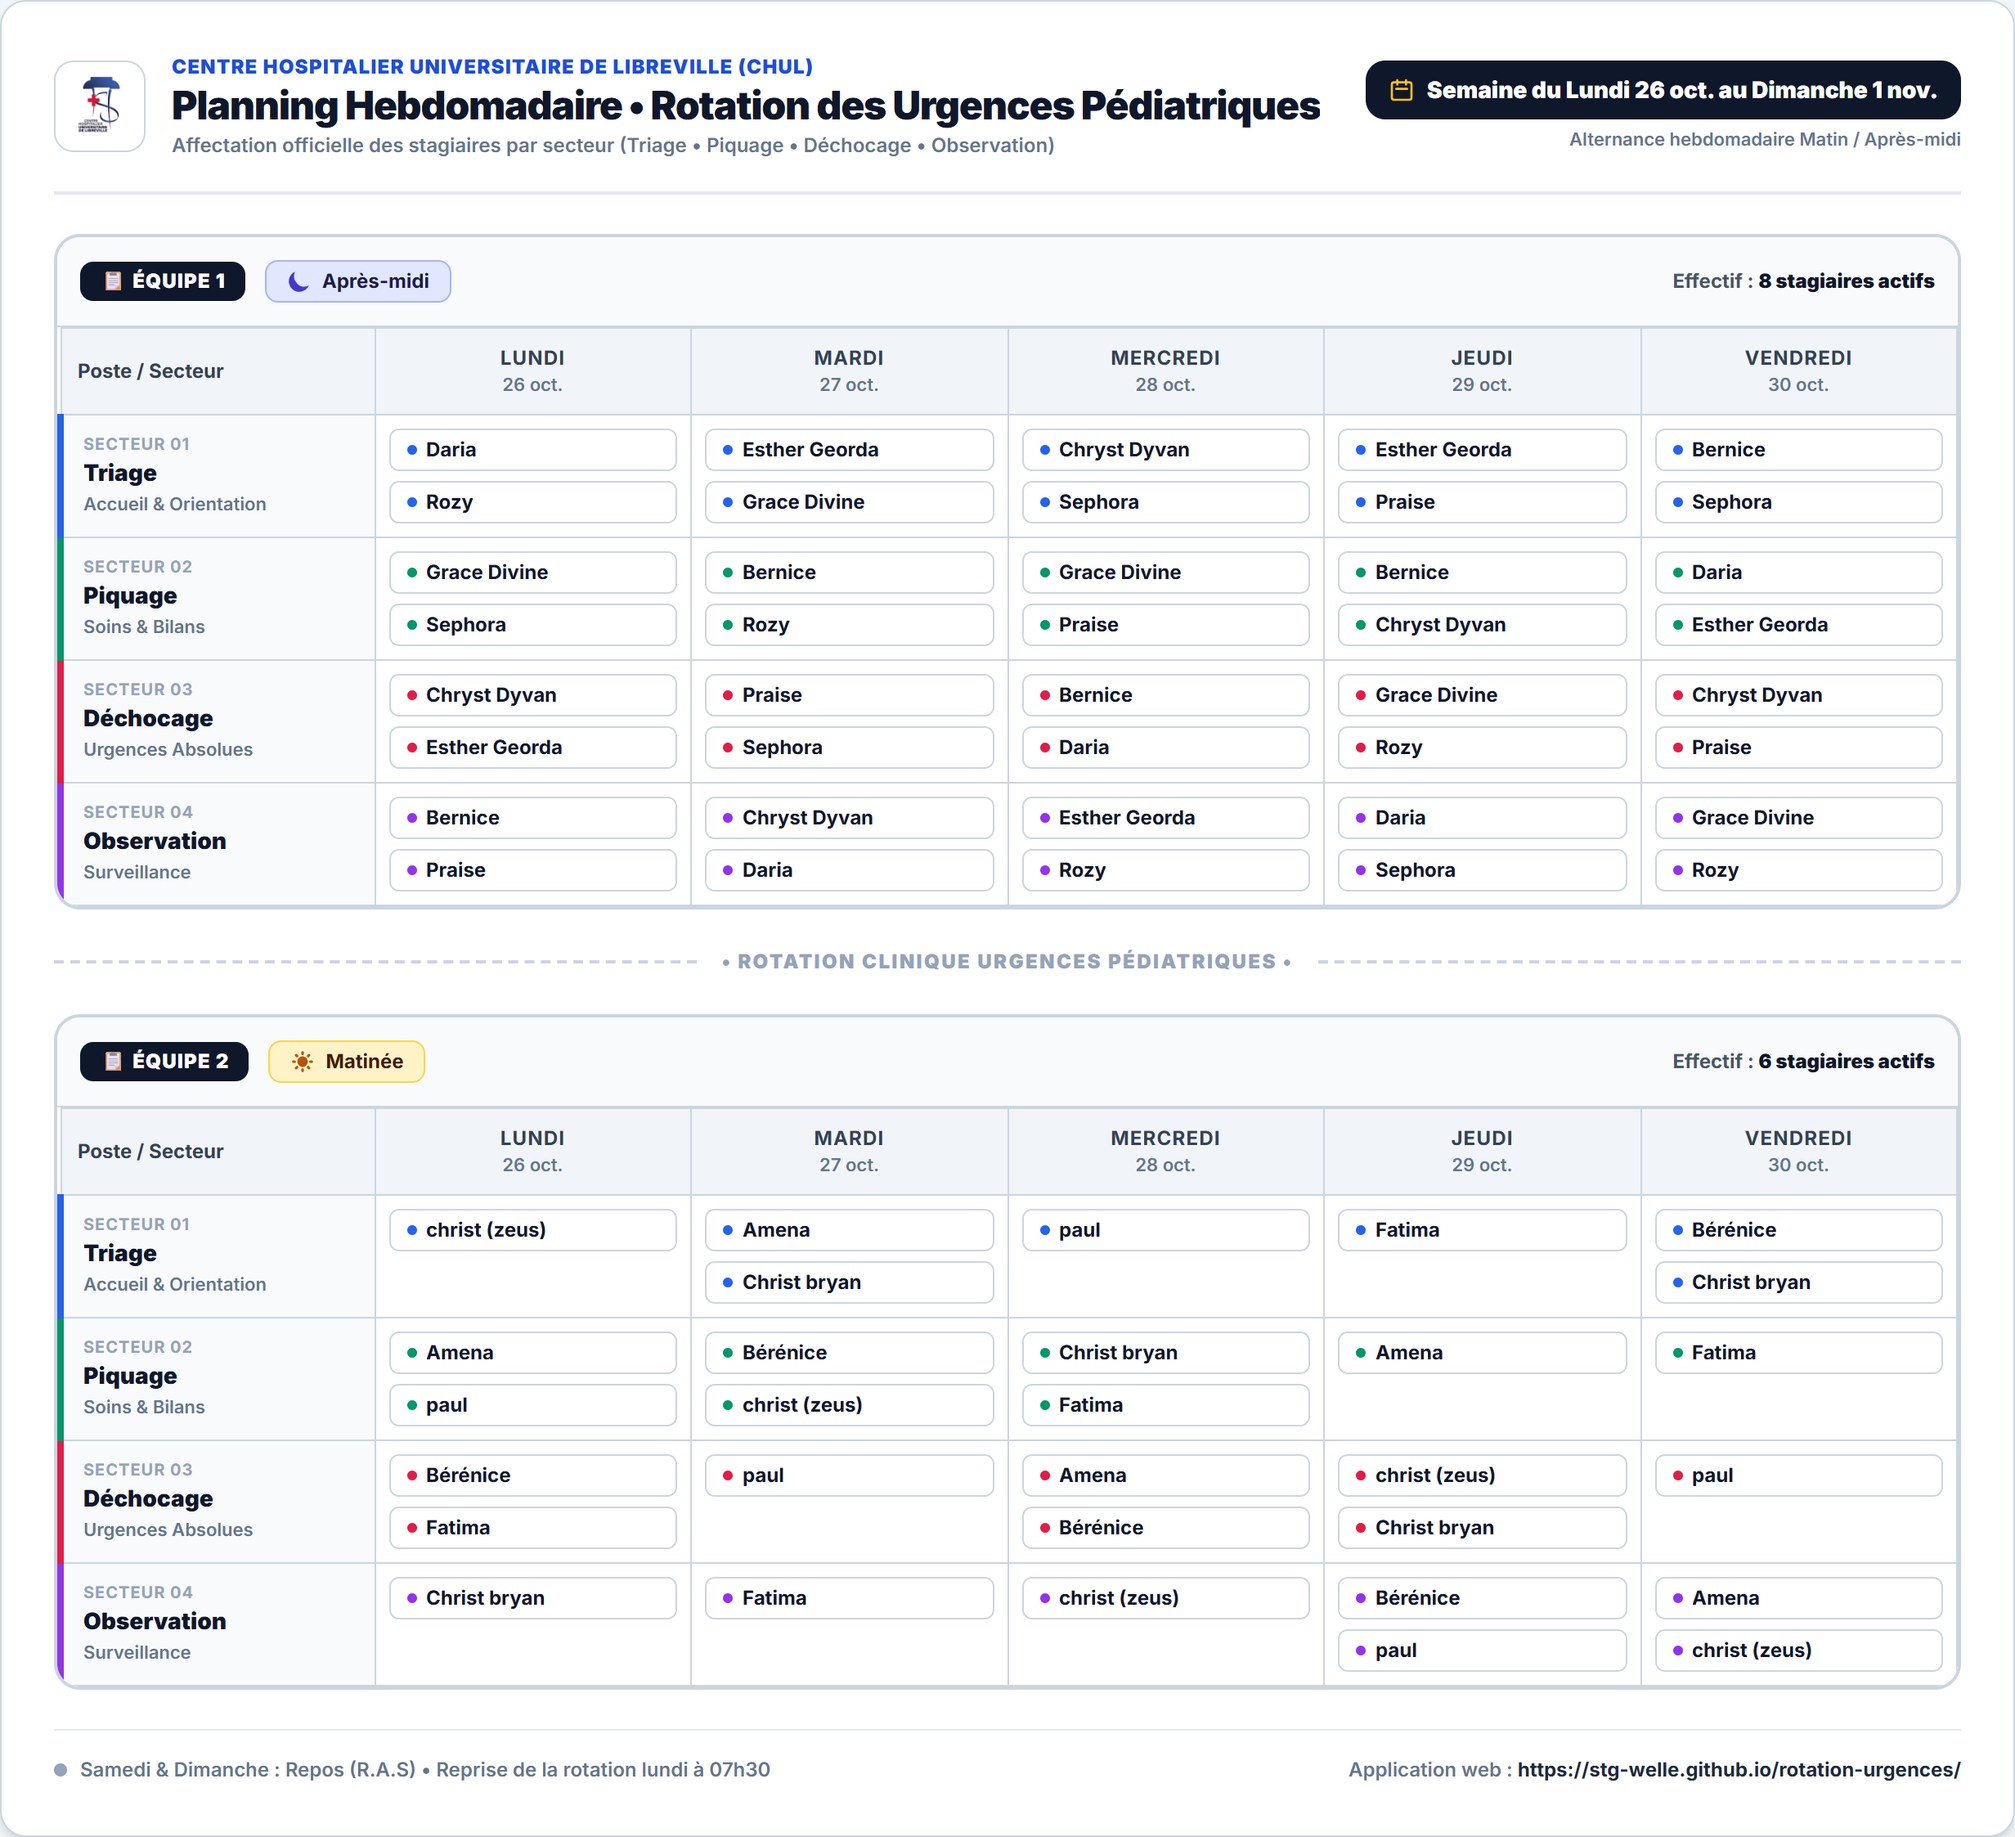
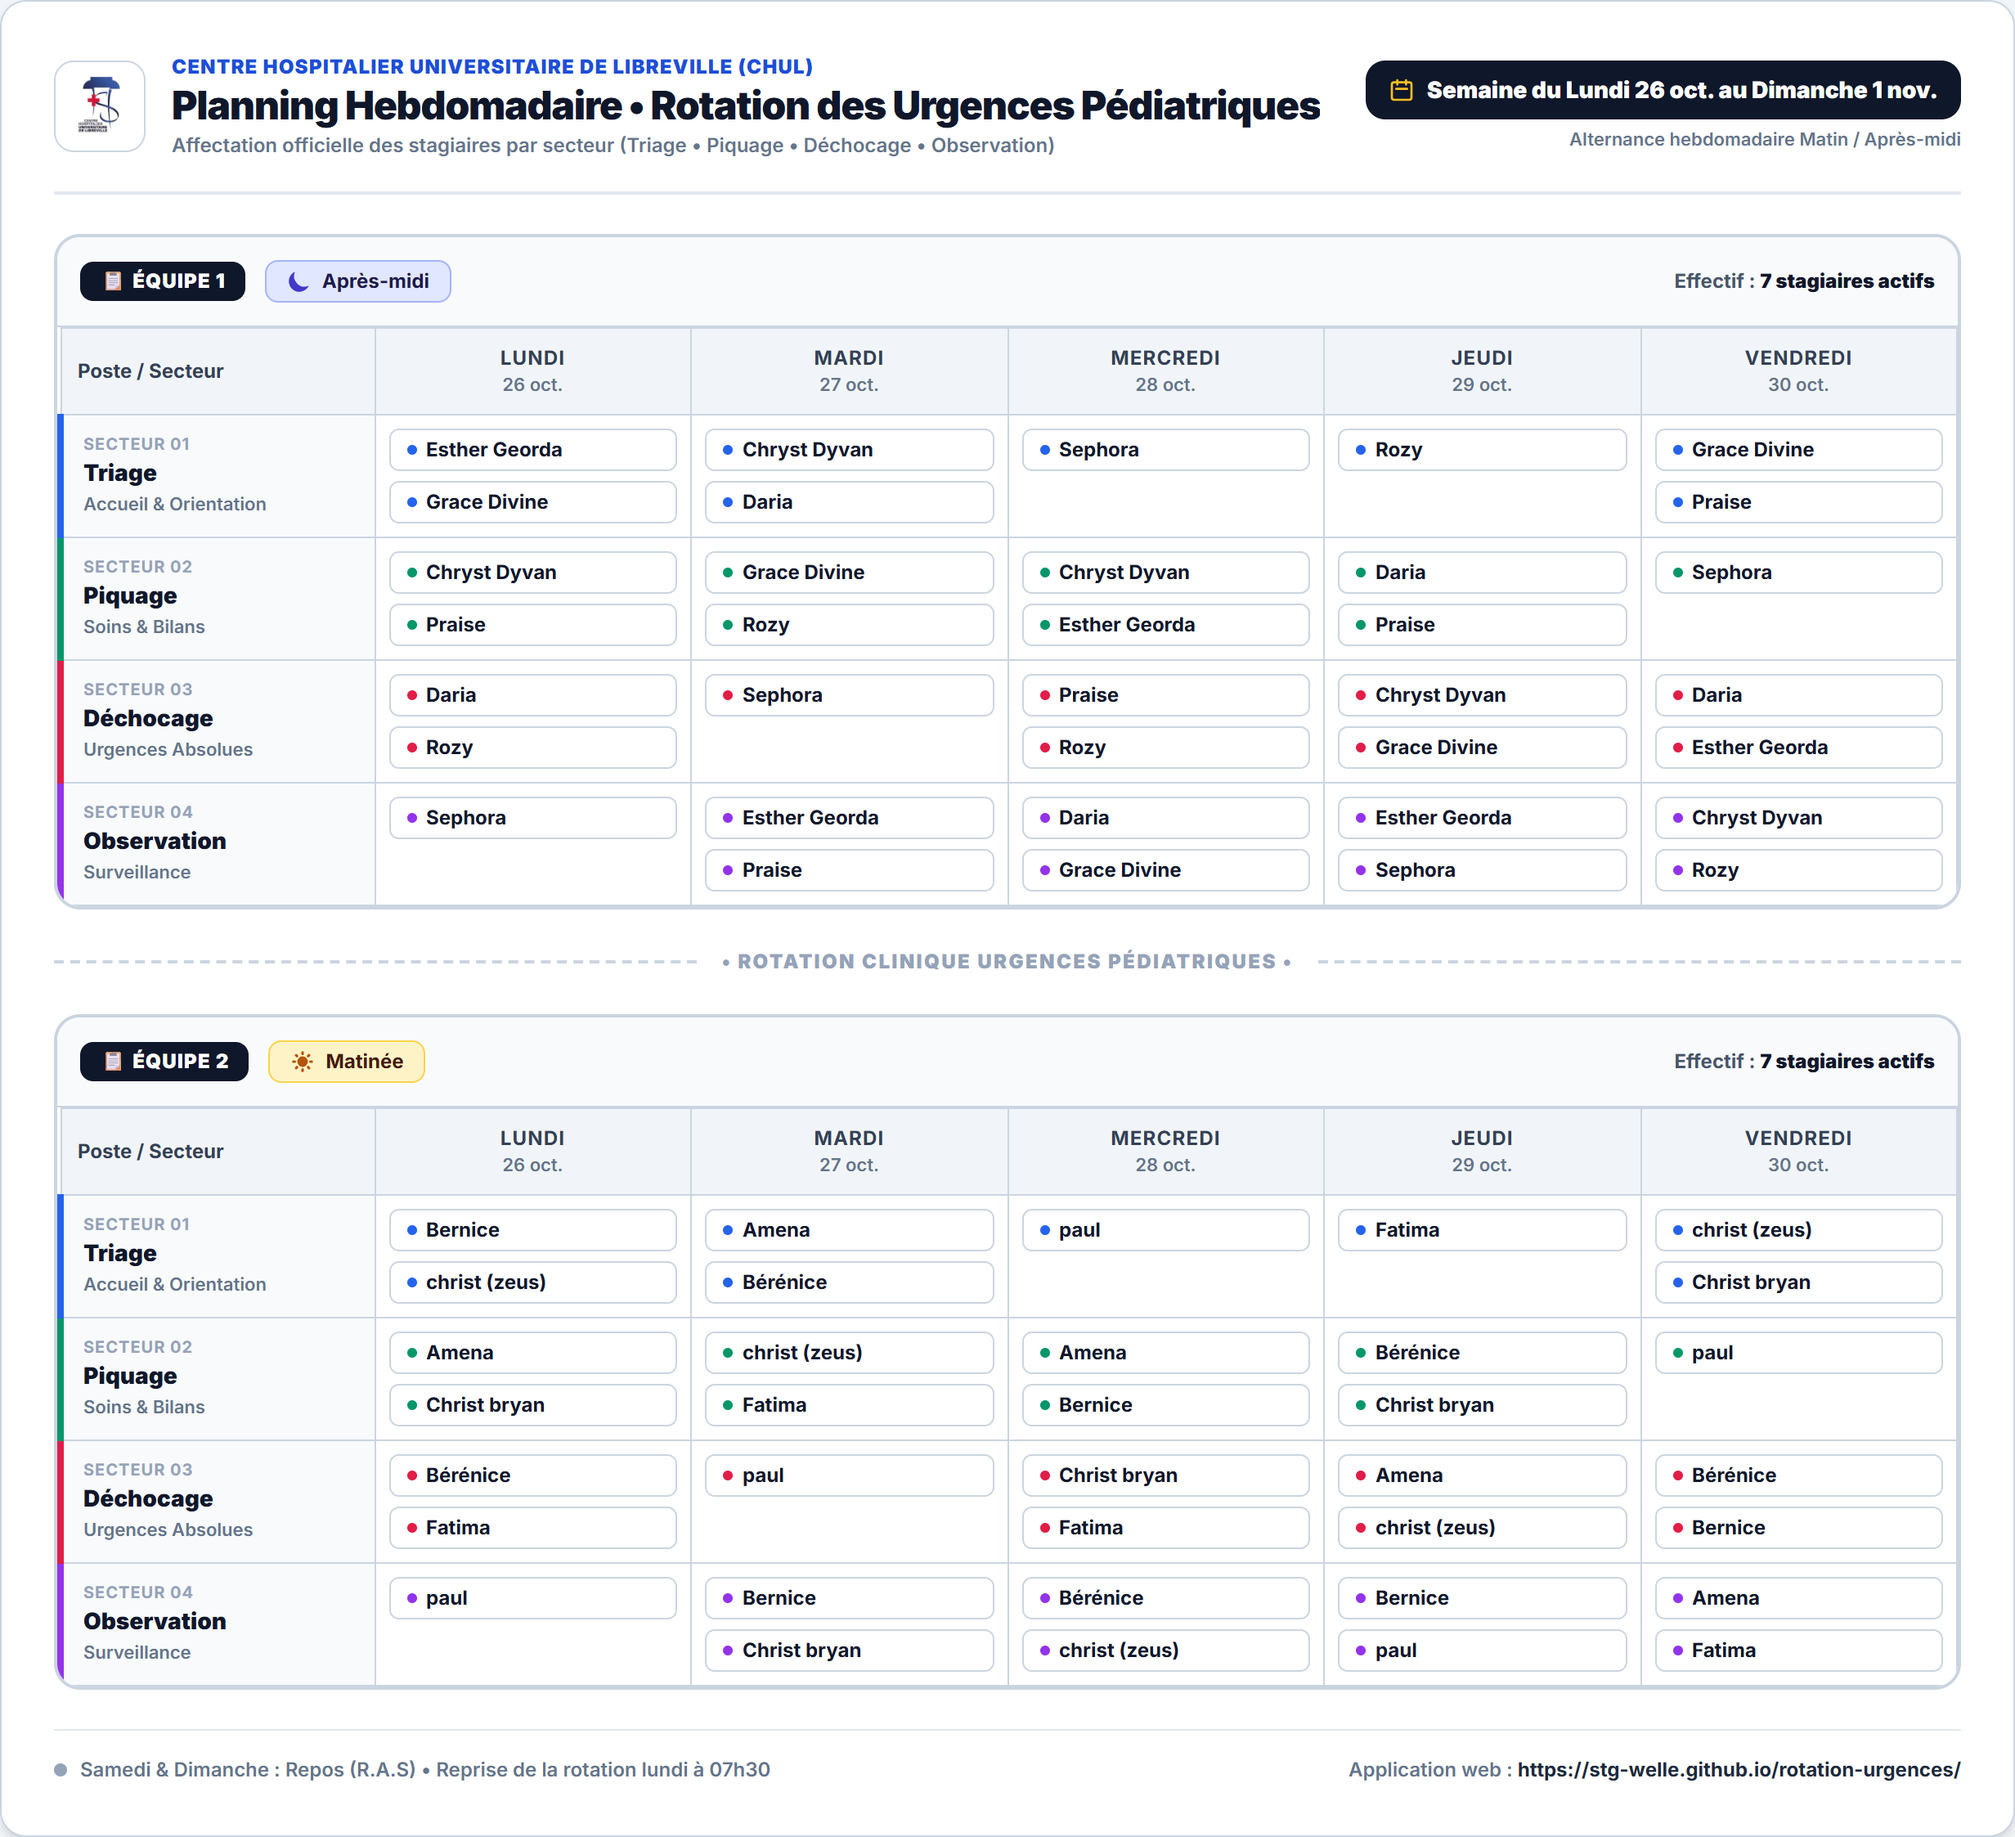
fix(whatsapp): update planning-semaine.png (without Moukombati) and add anti-cache query parameter

diff --git a/supabase/functions/green-api-webhook/index.ts b/supabase/functions/green-api-webhook/index.ts
@@ -621,7 +621,7 @@ serve(async (req: Request) => {
           // CAS 2 : COMMANDE "pln" (Planning hebdomadaire)
           if (isPlnTrigger) {
             console.log(`🤖 [BOT AUTORISÉ] Commande 'pln' validée pour ${senderName} ! Envoi du planning au chat ${chatId}...`);
-            const publicImageUrl = "https://raw.githubusercontent.com/STG-welle/rotation-urgences/main/planning-semaine.png";
+            const publicImageUrl = `https://raw.githubusercontent.com/STG-welle/rotation-urgences/main/planning-semaine.png?t=${Date.now()}`;
             const captionText = "Salut ! Voici de nouveau le planning des urgences pédiatriques de la semaine.\n\nBonne semaine !";
 
             try {
